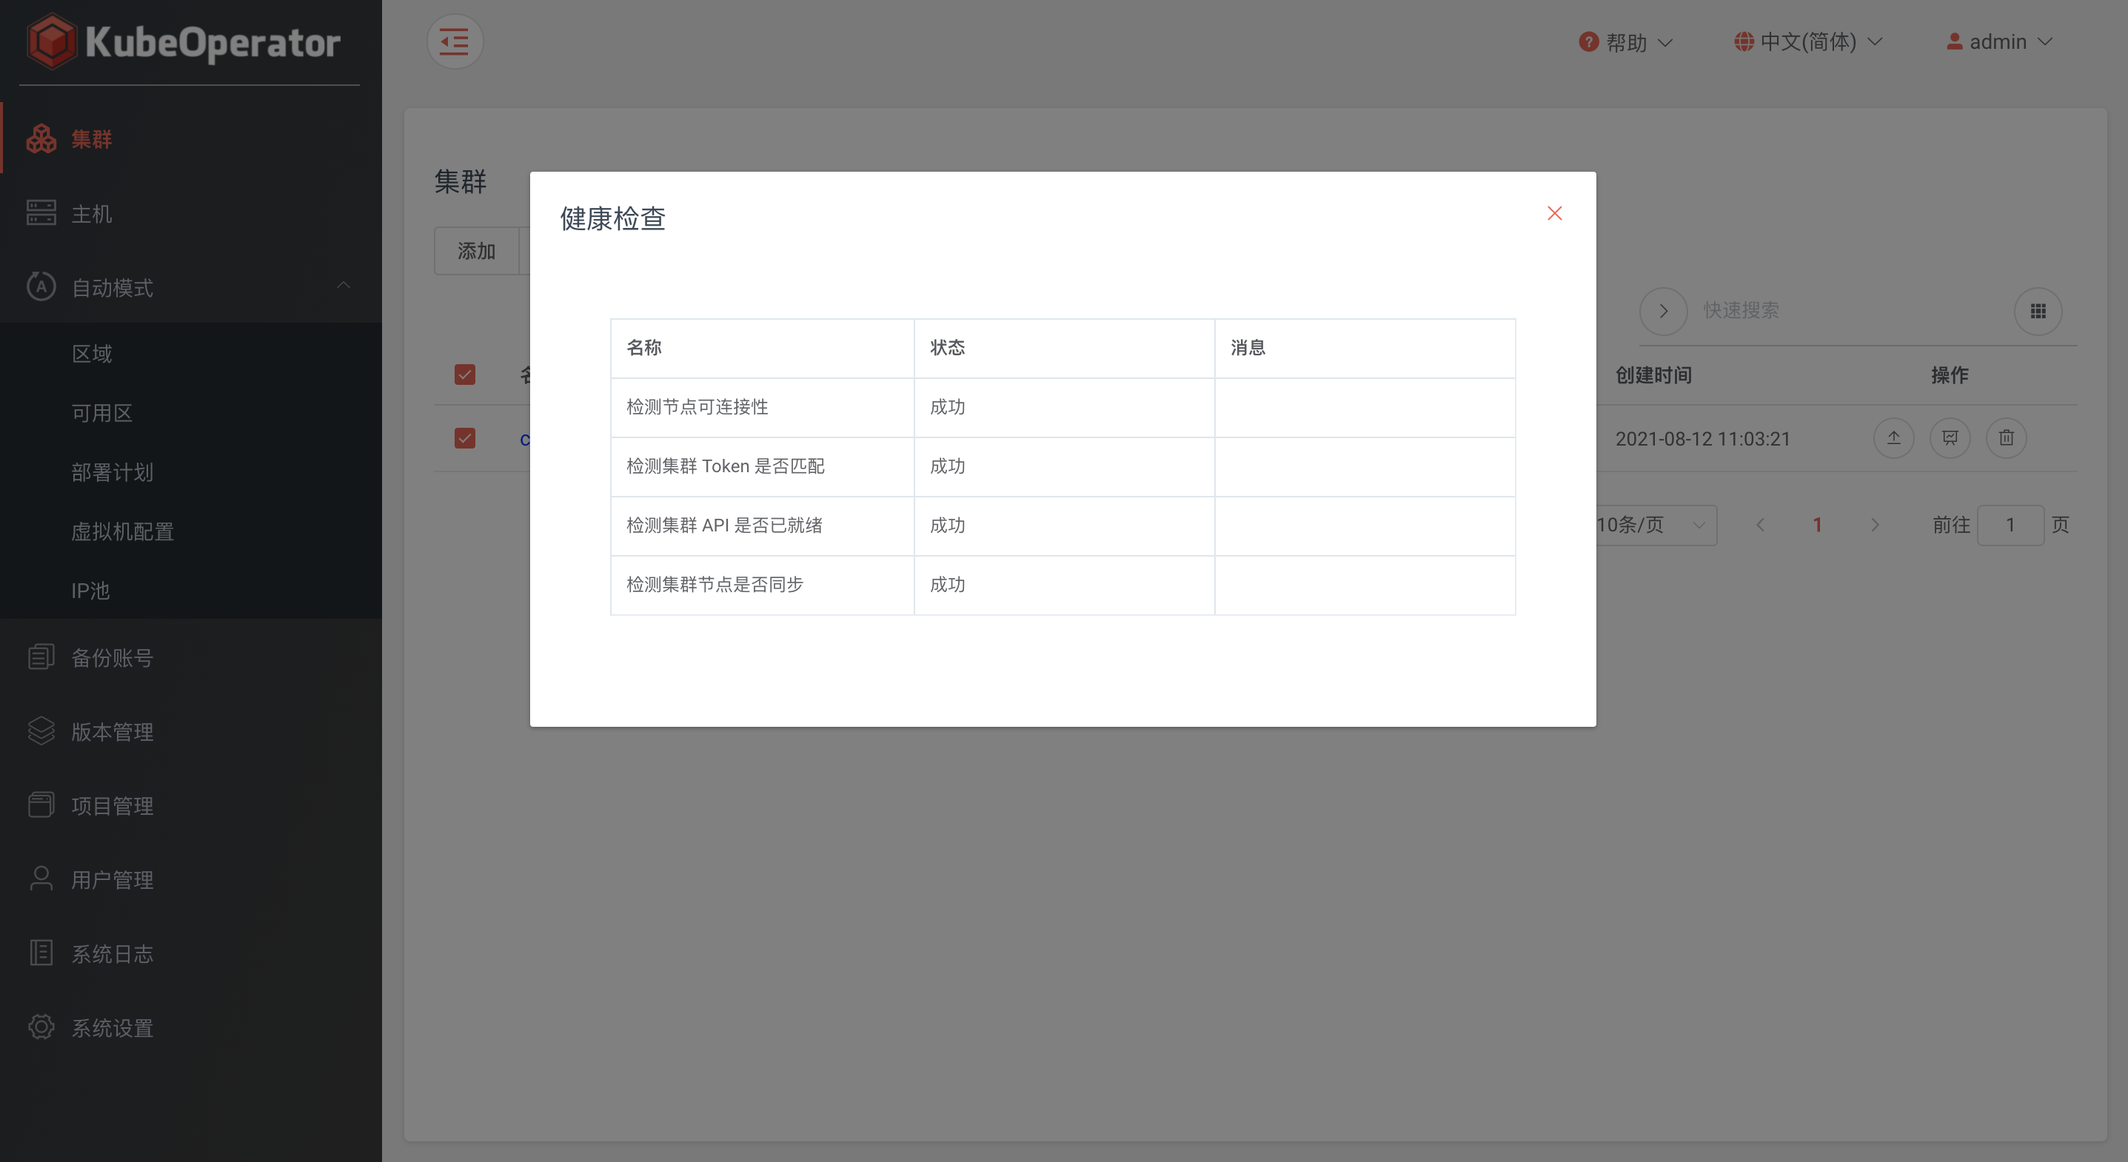
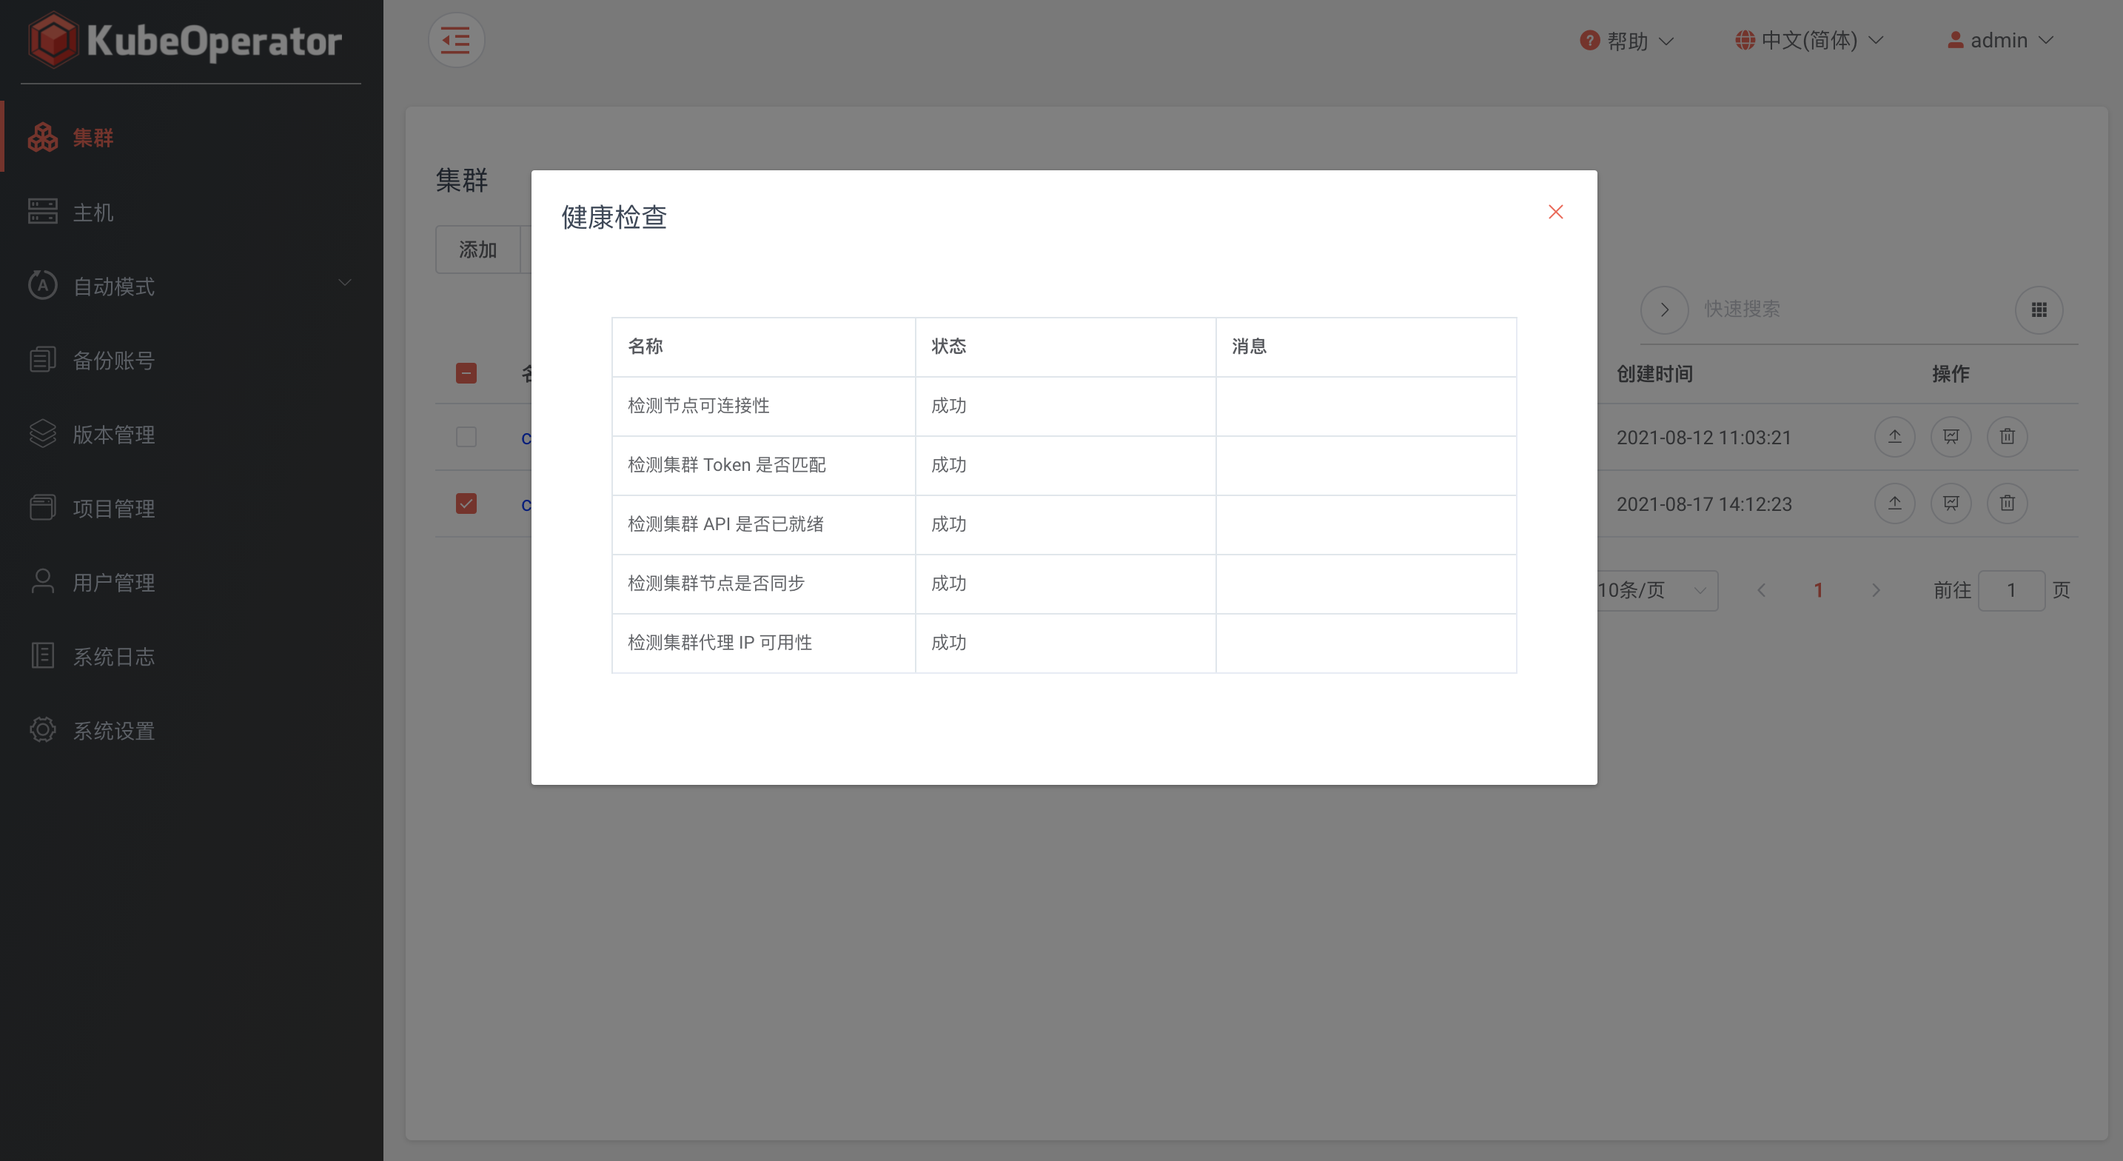
v3.10.1

diff --git a/docs/user_manual/kubeapps.md b/docs/user_manual/kubeapps.md
@@ -14,67 +14,67 @@
 ### 安装 KubeApps
 
 !!! warning ""
-    * 进入目标集群，在【工具】tab页面点击启用 KubeApps。根据需要自定义存储
+    进入目标集群，在【工具】tab页面点击启用 KubeApps。根据需要自定义存储
 
 ![kubeapps-2](../img/guidelines/kubeapps/kubeapps-2.png)
 
 ### 使用 KubeApps
 
 !!! warning ""
-    * KubeApps 安装完成后，单击 【转到】 按钮，可以安全地访问 KubeApps Dashboard
+    KubeApps 安装完成后，单击 【转到】 按钮，可以安全地访问 KubeApps Dashboard
 
 ![kubeapps-3](../img/guidelines/kubeapps/kubeapps-3.png)
 
 ### 部署应用
 
 !!! warning ""
-    * 在 Dashboard 中的【Catalog】页中可以看到系统默认自带的应用，可选择一个应用程序部署
+    在 Dashboard 中的【Catalog】页中可以看到系统默认自带的应用，可选择一个应用程序部署
 
 ![kubeapps-4](../img/guidelines/kubeapps/kubeapps-4.png)
 
 
 !!! warning ""
-    * 首选根据用户需要选择一个 namespace，这里选择 kube-operator，然后单击部署应用，可以看到【应用商店】里面目前支持的应用列表。选择 GitLab 应用后，在应用页面右侧单击“Deploy”按钮
+    首选根据用户需要选择一个 namespace，这里选择 kube-operator，然后单击部署应用，可以看到【应用商店】里面目前支持的应用列表。选择 GitLab 应用后，在应用页面右侧单击“Deploy”按钮
 
 ![gitlab-1](../img/guidelines/kubeapps/gitlab-1.png)
 
 !!! warning ""
-    * 系统将提示输入应用程序的名称，还可以看到目前版本，以及 GitLab 应用 YAML 配置文件，用户可根据自身需求修改该配置文件
+    系统将提示输入应用程序的名称，还可以看到目前版本，以及 GitLab 应用 YAML 配置文件，用户可根据自身需求修改该配置文件
 
 ![gitlab-2](../img/guidelines/kubeapps/gitlab-2.png)
 
 !!! warning ""
-    * 根据实际情况，自定义存储（storageClass）、Ingress等变量
+    根据实际情况，自定义存储（storageClass）、Ingress等变量
 
 !!! warning ""
-    * 在最下面点击 “Submit” 按钮，该应用程序将被部署，部署成功后，应用变为就绪状态
+    在最下面点击 “Submit” 按钮，该应用程序将被部署，部署成功后，应用变为就绪状态
 
 ![gitlab-3](../img/guidelines/kubeapps/gitlab-3.png)
 
 !!! warning ""
-    * 要获取 GitLab 用户名和密码, 请参考部署页面的 “Notes” 部分。如果 Service 类型为 Ingress，要将该 URL 添加到本地 hosts 解析
+    要获取 GitLab 用户名和密码, 请参考部署页面的 “Notes” 部分。如果 Service 类型为 Ingress，要将该 URL 添加到本地 hosts 解析
 
 ### 删除应用
 
 !!! warning ""
-    * 部署完成的应用如果要删除，可以在【Applications】进入 GitLab 应用后，单击右侧 “Delete” 按钮确定即可删除
+    部署完成的应用如果要删除，可以在【Applications】进入 GitLab 应用后，单击右侧 “Delete” 按钮确定即可删除
 
 ![gitlab-4](../img/guidelines/kubeapps/gitlab-4.png)
 
 ### 添加存储库
 
 !!! warning ""
-    * KubeApps 支持添加外部应用仓库，在【Configuration】下拉菜单“App Repositories“页面，单击“Add App Repository”
+    KubeApps 支持添加外部应用仓库，在【Configuration】下拉菜单“App Repositories“页面，单击“Add App Repository”
 
 ![kubeapps-5](../img/guidelines/kubeapps/kubeapps-5.png)
 
 ### 推送 chart 镜像（离线包安装集群可选）
 
 !!! warning ""
-    * 包括 Argo CD、Gitlab、Harbor、Jenkins、Weave Scope 和 Sonarqube 镜像，用户可以根据需要下载并安装
+    包括 Argo CD、Gitlab、Harbor、Jenkins、Weave Scope 和 Sonarqube 镜像，用户可以根据需要下载并安装
 
 !!! warning ""
-    * 安装包下载链接: https://github.com/KubeOperator/charts/releases
+    安装包下载链接: https://github.com/KubeOperator/charts/releases
 
 #### 安装步骤:
 

diff --git a/docs/user_manual/plan.md b/docs/user_manual/plan.md
@@ -10,14 +10,14 @@
 ### IP 池
 
 !!! warning ""
-    * IP 池在创建可用区时使用，池中的 IP 地址将分配给虚拟机
+    IP 池在创建可用区时使用，池中的 IP 地址将分配给虚拟机
 
 ![ip-pool-list](../img/user_manual/plan/ip-pool-list.png)
 
 #### 添加 IP 池
 
 !!! warning ""
-    * 创建 IP 池要配置好子网掩码、起止 IP、网关和 DNS 等
+    创建 IP 池要配置好子网掩码、起止 IP、网关和 DNS 等
 
 ![ip-pool-add](../img/user_manual/plan/ip-pool-add.png)
 
@@ -32,33 +32,34 @@
 ### 区域（Region）
 
 !!! warning ""
-* 与公有云中的 Region 概念相似，可以简单理解为地理上的区域
-* 创建区域时，首先选择提供商，目前支持 VMware vSphere、OpenStack 和 FusionCompute
-* 配置参数时，需要提供 vSphere 环境信息，包括 vCenter IP，用户名和密码，单击【验证】可以校验 vSphere 信息是否正确
-* vCenter 用户需要的权限比较高，建议直接绑定带有管理员角色的用户
+    * 与公有云中的 Region 概念相似，可以简单理解为地理上的区域
+    * 创建区域时，首先选择提供商，目前支持 VMware vSphere、OpenStack 和 FusionCompute
+    * 配置参数时，需要提供 vSphere 环境信息，包括 vCenter IP，用户名和密码，单击【验证】可以校验 vSphere 信息是否正确
+    * vCenter 用户需要的权限比较高，建议直接绑定带有管理员角色的用户
 
 ![region-1](../img/user_manual/plan/region-1.png)
 
 ### 可用区（Zone）
 
 !!! warning ""
-* 与公有云中的 AZ 概念相似，可以简单理解为 Region 中具体的机房
-* 在 vSphere 体系中我们使用不同的 Cluster 或者同个 Cluster 下的不同 Resource Pool 来实现 Zone 的划分
-* 选择可用区配置参数时，需要选择计算集群，资源池，存储类型以及网络适配器等信息，这些信息依赖于 vCenter 环境配置
-* 支持默认模版和自定义模版（默认模版为CentOS 7.6）
+    * 与公有云中的 AZ 概念相似，可以简单理解为 Region 中具体的机房
+    * 在 vSphere 体系中我们使用不同的 Cluster 或者同个 Cluster 下的不同 Resource Pool 来实现 Zone 的划分
+    * 选择可用区配置参数时，需要选择计算集群，资源池，存储类型以及网络适配器等信息，这些信息依赖于 vCenter 环境配置
+    * 支持默认模版和自定义模版（默认模版为CentOS 7.6，root 密码默认为 KubeOperator@2019）
 
 ![zone-1](../img/user_manual/plan/zone-1.png)
 
 !!! warning ""
-* 添加成功后会有一个初始化的过程（选择默认模版时，需要将 nexus 仓库中的模版文件上传到 vCenter），同步成功之后状态变为就绪
+    * 选择默认模版时，需要将 nexus 仓库中的模版文件上传到 vCenter，成功之后状态变为就绪
+    * 初始化过程中需要创建一个名称为 kubeoperator 的文件夹，因此 vCenter 中不能存在名称为 kubeoperator 的虚拟机或者模版
 
 ### 部署计划（Plan）
 
 !!! warning ""
-* 用来描述在哪个区域下，哪些可用区中，使用什么样的机器规格，部署什么类型的集群的一个抽象概念
-* 部署计划配置包括选择可用区（可用区可以单选或多选），并设置 Master 节点，Worker 节点的规格
+    * 用来描述在哪个区域下，哪些可用区中，使用什么样的机器规格，部署什么类型的集群的一个抽象概念
+    * 部署计划配置包括选择可用区（可用区可以单选或多选），并设置 Master 节点，Worker 节点的规格
 
 ![plan-1](../img/user_manual/plan/plan-1.png)
 
 !!! warning ""
-* 多主多节点集群可以选择多个可用区的部署计划
+    多主多节点集群可以选择多个可用区的部署计划

diff --git a/docs/quick_start/cluster_planning/automatic.md b/docs/quick_start/cluster_planning/automatic.md
@@ -17,14 +17,14 @@
 ### IP 池
 
 !!! warning ""
-    * IP 池在创建可用区时使用，池中的 IP 地址将分配给虚拟机
+    IP 池在创建可用区时使用，池中的 IP 地址将分配给虚拟机
 
 ![ip-pool-list](../../img/user_manual/plan/ip-pool-list.png)
 
 #### 添加 IP 池
 
 !!! warning ""
-    * 创建 IP 池要配置好子网掩码、起止 IP、网关和 DNS 等
+    创建 IP 池要配置好子网掩码、起止 IP、网关和 DNS 等
 
 ![ip-pool-add](../../img/user_manual/plan/ip-pool-add.png)
 
@@ -57,15 +57,13 @@
 ![zone-1](../../img/user_manual/plan/zone-1.png)
 
 !!! warning ""
-    * 添加成功后会有一个初始化的过程（选择默认模版时，需要将 nexus 仓库中的模版文件上传到 vCenter），同步成功之后状态变为就绪
+    添加成功后会有一个初始化的过程（选择默认模版时，需要将 nexus 仓库中的模版文件上传到 vCenter），同步成功之后状态变为就绪
 
 ### 部署计划（Plan）
 
 !!! warning ""
     * 用来描述在哪个区域下，哪些可用区中，使用什么样的机器规格，部署什么类型的集群的一个抽象概念
     * 部署计划配置包括选择可用区（可用区可以单选或多选），并设置 Master 节点，Worker 节点的规格
+    * 多主多节点集群可以选择多个可用区的部署计划
 
 ![plan-1](../../img/user_manual/plan/plan-1.png)
-
-!!! warning ""
-    * 多主多节点集群可以选择多个可用区的部署计划

diff --git a/docs/user_manual/system_management.md b/docs/user_manual/system_management.md
@@ -42,18 +42,18 @@
 ![system](../img/user_manual/system_management/ntp.png)
 
 !!! warning ""
-    * 密钥方法连接主机举例说明: 在 KubeOperator 主机中首先生成 id_rsa 和 id_rsa.pub 密钥对，将 id_rsa.pub 公钥里面内容添加要连接的目标主机 authorized_keys 文件中，authorized_keys 文件权限需要设置为 600 。然后在 KubeOperator 控制台的【凭据】页面，将开始生成的 id_rsa 私钥文件内容复制到凭据的密钥框中。注意这里的账号需要 root 账号
+    密钥方法连接主机举例说明: 在 KubeOperator 主机中首先生成 id_rsa 和 id_rsa.pub 密钥对，将 id_rsa.pub 公钥里面内容添加要连接的目标主机 authorized_keys 文件中，authorized_keys 文件权限需要设置为 600 。然后在 KubeOperator 控制台的【凭据】页面，将开始生成的 id_rsa 私钥文件内容复制到凭据的密钥框中。注意这里的账号需要 root 账号
 
 ### 邮箱
 
 !!! warning ""
-    * 电子邮件服务器用于向重置密码和消息中心开启邮件功能的用户发送邮件
+    电子邮件服务器用于向重置密码和消息中心开启邮件功能的用户发送邮件
 
 ![email](../img/user_manual/system_management/email-1.png)
 
 ### 许可证
 
 !!! warning ""
-    * 支持 license 导入，启用 x-pack 功能
+    支持 license 导入，启用 x-pack 功能
 
 ![license](../img/user_manual/system_management/license-1.png)

diff --git a/docs/user_manual/user_management.md b/docs/user_manual/user_management.md
@@ -5,23 +5,23 @@
 ### 系统管理员
 
 !!! warning ""
-    * 系统管理员用户权限和系统默认账号 admin 权限完全相同。新建的系统管理员登录系统后可实现所有 admin 权限的操作
+    系统管理员用户权限和系统默认账号 admin 权限完全相同。新建的系统管理员登录系统后可实现所有 admin 权限的操作
 
 ![admin-user](../img/user_manual/user_management/user-1.png)
 
 ### 普通用户
 
 !!! warning ""
-    * 普通用户初始状态没有任何权限。需要在【项目】内添加成为项目管理员或集群管理员
+    普通用户初始状态没有任何权限。需要在【项目】内添加成为项目管理员或集群管理员
 
 ![common-user](../img/user_manual/user_management/user-2.png)
 
 !!! warning ""
-    * admin 管理员可以删除、禁用和开启所有用户，新建系统管理员可以删除、禁用和开启除 admin 账号以外的所有用户，普通用户无上述权限
+    admin 管理员可以删除、禁用和开启所有用户，新建系统管理员可以删除、禁用和开启除 admin 账号以外的所有用户，普通用户无上述权限
 
 ### 修改密码
 
 !!! warning ""
-    * 点击右上角用户下拉按钮，选择修改密码
+    点击右上角用户下拉按钮，选择修改密码
 
 ![edit-password](../img/user_manual/user_management/user-3.png)

diff --git a/docs/installation/install.md b/docs/installation/install.md
@@ -220,11 +220,10 @@
 
               Name                        Command                  State                                       Ports
     ------------------------------------------------------------------------------------------------------------------------------------------------
-    kubeoperator_grafana      /run.sh                          Up (healthy)   3000/tcp
-    kubeoperator_kobe         kobe-server                      Up (healthy)   8080/tcp
+    kubeoperator_kobe         sh /root/entrypoint.sh           Up (healthy)   8080/tcp
     kubeoperator_kotf         kotf-server                      Up (healthy)   8080/tcp
     kubeoperator_mysql        /entrypoint.sh mysqld            Up (healthy)   3306/tcp, 33060/tcp
-    kubeoperator_nexus        sh -c ${SONATYPE_DIR}/star ...   Up             0.0.0.0:8081->8081/tcp, 0.0.0.0:8082->8082/tcp, 0.0.0.0:8083->8083/tcp
+    kubeoperator_nexus        sh -c ${SONATYPE_DIR}/star ...   Up (healthy)   0.0.0.0:8081->8081/tcp, 0.0.0.0:8082->8082/tcp, 0.0.0.0:8083->8083/tcp
     kubeoperator_nginx        /docker-entrypoint.sh ngin ...   Up (healthy)   0.0.0.0:80->80/tcp
     kubeoperator_server       ko-server                        Up (healthy)   8080/tcp
     kubeoperator_ui           /docker-entrypoint.sh ngin ...   Up (healthy)   80/tcp

diff --git a/docs/quick_start/cluster_import.md b/docs/quick_start/cluster_import.md
@@ -2,14 +2,16 @@
 ### 基本信息
 
 !!! warning ""
-    输入要导入集群的名称、Api Server、Router、Token
+    * 支持导入非 KubeOperator 创建的集群
+    * 导入集群版本要在 KubeOperator 支持的版本范围内，参考: [版本管理](../user_manual/version.md#_4)
 
 ![cluster-import](../img/user_manual/cluster/cluster-import.png)
 
 !!! info "示例"
-    * Api Server: https://172.16.10.100:8443
-    * Router: 装有 kube-proxy 的任意节点的且可以被访问到的 IP 地址
-    * Token: 要具有 cluster-admin 权限
+    * 架构: 选择集群节点的 CPU 架构类型（支持 amd64、arm64 和混合架构三种类型）
+    * Api Server: https://172.16.10.123:8443
+    * Router: 装有 kube-proxy 的任意集群节点 IP 地址
+    * Token: 需要具有 cluster-admin 权限
 
     ```vi
     # 获取 cluster-admin 权限的 token
@@ -45,4 +47,4 @@
     ```
 
 !!! warning ""
-    * KubeOperator 不能针对导入的集群进行扩缩容、备份等集群运营操作
+    KubeOperator 不能针对导入的集群进行扩缩容、备份等集群运营操作

diff --git a/docs/index.md b/docs/index.md
@@ -265,7 +265,7 @@
     * [helm-v3](https://github.com/helm/helm) v3.6.0
     * [traefik](https://github.com/containous/traefik) v2.4.8
     * [ingress-nginx](https://github.com/kubernetes/ingress-nginx) v0.33.0
-    * [metrics-server](https://github.com/kubernetes-sigs/metrics-server) v0.3.6
+    * [metrics-server](https://github.com/kubernetes-sigs/metrics-server) v0.5.0
 
 !!! warning ""
     * [istio](https://github.com/istio/istio) 1.8.0
@@ -281,8 +281,8 @@
 !!! warning ""
     * [argo-cd](https://github.com/argoproj/argo-cd) v2.0.3
     * [gitlab-ce](https://about.gitlab.com) v9.4.1
-    * [harbor](https://github.com/goharbor/harbor) v1.10.2
-    * [jenkins](https://github.com/jenkinsci/jenkins) v2.222.1
+    * [harbor](https://github.com/goharbor/harbor) v2.3.1
+    * [jenkins](https://github.com/jenkinsci/jenkins) v2.289.3
     * [kuboard](https://github.com/eip-work/kuboard-press) v2.0.5.1
     * [redmine](https://github.com/redmine/redmine) v4.1.1
     * [sonarqube](https://github.com/SonarSource/sonarqube) v7.9.2

diff --git a/docs/about/changelog.md b/docs/about/changelog.md
@@ -14,6 +14,22 @@
     * 在 v3.3 发布前，我们会同时维护 v3.0、v3.1、v3.2
     * 在 v3.3 发布后，我们会同时维护 v3.1、v3.2、v3.3；v3.0 会停止维护
 
+## v3.10.1
+------------------------
+2021年8月19日
+
+!!! info "支持 k8s 版本"
+支持的 k8s 版本是 1.20.8、v1.18.20
+
+!!! summary "功能优化"
+    - 健康检查增加代理IP检测
+
+!!! success "Bug 修复"
+    - 修复了 service cidr 修改后创建集群没有生效的问题
+    - 修复了使用中的仓库可以被删除的问题
+    - 修复了项目管理员切换项目异常的问题
+    - 修复了导入集群删除后没有接收到站内信的问题
+
 ## v3.10.0
 ------------------------
 2021年8月12日

diff --git a/docs/quick_start/cluster_deployment.md b/docs/quick_start/cluster_deployment.md
@@ -75,12 +75,12 @@
 ### 节点信息
 
 !!! warning ""
-    * 根据不同的节点角色选择目标主机（手动模式）
+    根据不同的节点角色选择目标主机（手动模式）
 
 ![deploy-hosts](../img/user_manual/cluster/deploy-hosts.png)
 
 !!! warning ""
-    * 选择已授权部署计划，设置 Worker 节点数量（自动模式）
+    选择已授权部署计划，设置 Worker 节点数量（自动模式）
 
 ![deploy-plan](../img/user_manual/cluster/deploy-plan.png)
 

diff --git a/docs/concept.md b/docs/concept.md
@@ -15,7 +15,6 @@
 ![region-zone](img/ko-region.png)
 
 !!! warning ""
-
     区域(Region)和可用区(AZ)这两个术语来自公有云。每个区域完全独立。每个可用区完全隔离，但同一个区域内的可用区之间使用低时延链路相连。区域和可用区之间的关系如下图所示
 
 !!! warning ""

diff --git a/docs/quick_start/cluster_planning/manual.md b/docs/quick_start/cluster_planning/manual.md
@@ -38,7 +38,7 @@
 ### 主机列表
 
 !!! warning ""
-    * 主机列表可以看到已添加主机的详细信息，包括 IP、CPU、内存、操作系统等
+    主机列表可以看到已添加主机的详细信息，包括 IP、CPU、内存、操作系统等
 
 ![host-list](../../img/user_manual/hosts/host-list.png)
 
